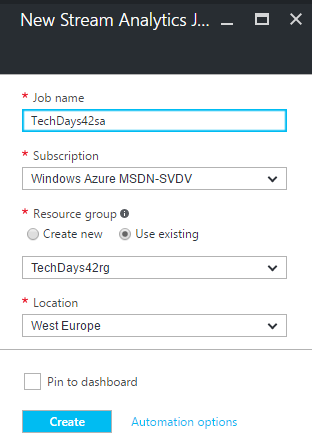
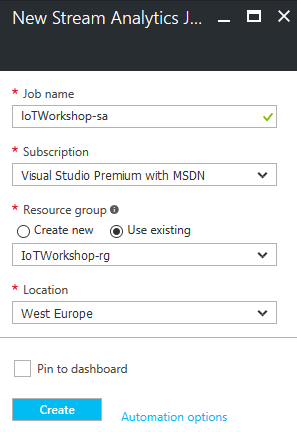
Stream analytics creation

diff --git a/Azure.md b/Azure.md
@@ -39,17 +39,18 @@ Follow these steps to create an Azure Stream Analytics job which takes messages 
 
     ![alt tag](img/azure-filter-stream-analytics.png)
 
-6. An introduction will be shown. Select `Create`
+6. An introduction will be shown
 
     ![alt tag](img/azure-stream-analytics-intro.png)
 
-7. A dialog for a new Stream Analytics job is shown. Enter a unique name eg. `TechDays42sa`. A green sign will be shown if the name is unique
-8. The Resource Group eg. `TechDays42rg` is already filled in
-9. Select `West Europe` for the location
+7. Select `Create`
+8. A dialog for a new Stream Analytics job is shown. Enter a unique name eg. `IoTWorkshop-sa`. A green sign will be shown if the name is unique
+9. The Resource Group eg. `IoTWorkshop-rg` is already filled in
+10. Select `West Europe` for the location
 
     ![alt tag](img/azure-create-stream-analytics.png)
 
-10. Select `Create` and the portal will start creating the service. Once it is created, a notification is shown
+11. Select `Create` and the portal will start creating the service. Once it is created, a notification is shown
 
 Creating an Azure Stream analytics job will take some time. Input is already known, the already existing IoT Hub; so let's create the service to send the output to, an azure Event Hub.
 
